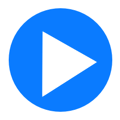
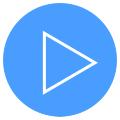
update

diff --git a/Classes/FlashCard.m b/Classes/FlashCard.m
@@ -5410,7 +5410,7 @@ typedef NS_ENUM(NSInteger, Type_AlertView) {
         thumbnail = [UIImage imageNamed:@"video_default"];
     }
     
-    UIImage *playImage = [UIImage imageNamed:@"play.png"];
+    UIImage *playImage = [UIImage imageNamed:@"play"];
     
     UIGraphicsBeginImageContext(thumbnail.size);
     [thumbnail drawInRect:CGRectMake(0, 0, thumbnail.size.width, thumbnail.size.height)];
